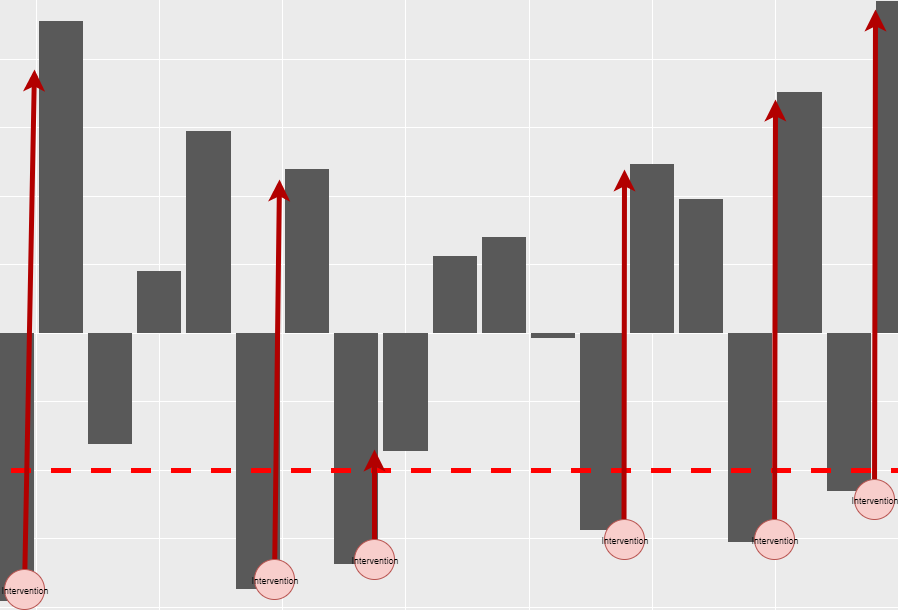
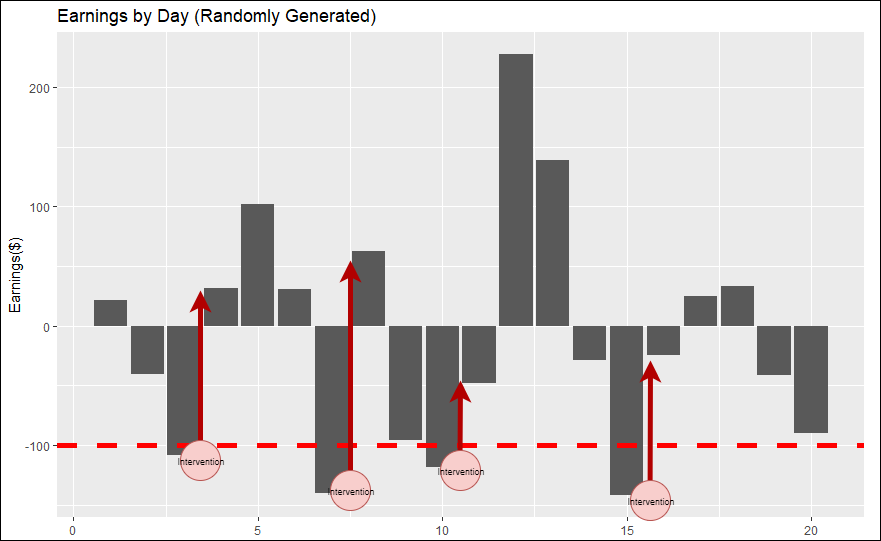
added code reference

diff --git a/_posts/2020-03-30-Bias ~ Regression Fallacy.md b/_posts/2020-03-30-Bias ~ Regression Fallacy.md
@@ -30,5 +30,9 @@ This phenomenon, and others that misattribute causality are common and show why 
 
 Learn more:
 -----------------------
+Code Used for graphs: https://github.com/chris-ww/Posts/blob/master/2020-03-30.R
+
 Book: Thinking Fast and Slow by Daniel Kahneman
-https://en.wikipedia.org/wiki/Regression_fallacy
+Wiki: https://en.wikipedia.org/wiki/Regression_fallacy
+Software: https://www.r-project.org/
+Code Used for graphs: https://github.com/chris-ww/Posts/blob/master/2020-03-30.R
